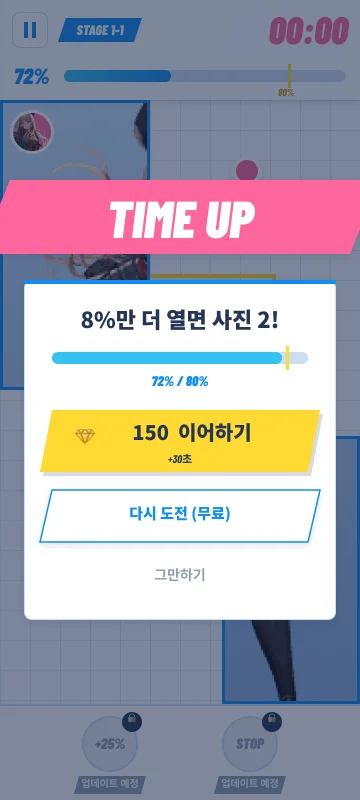
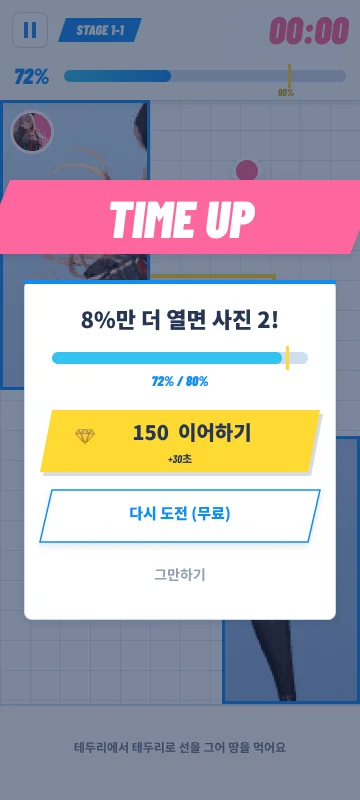
Proposal: no booster slots at launch, tap a storyboard to float the whole flow with holo result
Claude-Session: https://claude.ai/code/session_01QC4LnGUoEV4hPAaGSGh6GF

diff --git a/territory-romance-f2p-proposal.html b/territory-romance-f2p-proposal.html
@@ -104,6 +104,18 @@ section{margin:72px 0}
 .pm .phone{width:min(92vw,calc(86vh*9/16),380px);border-radius:26px;padding:8px;background:#0e1726;box-shadow:0 18px 50px rgba(0,0,0,.5)}
 .pm iframe{display:block;width:100%;aspect-ratio:9/16;border:0;border-radius:19px;background:#eaf3ff}
 .pm .x{position:absolute;top:14px;right:14px;border:0;background:rgba(255,255,255,.14);color:#fff;font:900 22px/1 inherit;width:44px;height:44px;border-radius:999px;cursor:pointer}
+.sbv{position:fixed;inset:0;z-index:55;display:none;flex-direction:column;justify-content:center;background:#0b1220;padding:54px 16px 16px}
+.sbv.on{display:flex}
+.sbv h4{margin:0 0 14px;color:#e9eef5;font-size:15px;font-weight:900;text-align:center}
+.sbv .row{display:flex;gap:12px;overflow-x:auto;padding:4px 6px 6px;scroll-snap-type:x mandatory;align-items:flex-start;padding-bottom:6px}
+.sbv figure{margin:0;flex:0 0 auto;scroll-snap-align:center}
+.sbv figure img{display:block;width:100%;height:auto;border-radius:10px;background:#fff;box-shadow:0 10px 30px rgba(0,0,0,.4)}
+.sbv figure .holo{border-radius:10px}
+.sbv figcaption{color:#e9eef5;margin-top:10px;font-size:13px;line-height:1.4;word-break:keep-all}
+.sbv figcaption b{display:block;font-size:14.5px;margin-bottom:3px}
+.sbv figcaption b i{font-style:normal;color:#46c8d7;margin-right:6px}
+.sbv figcaption span{color:#b9c6d6}
+.sbv .x{position:absolute;top:10px;right:14px;border:0;background:rgba(255,255,255,.14);color:#fff;font:900 22px/1 inherit;width:44px;height:44px;border-radius:999px;cursor:pointer}
 .lb{position:fixed;inset:0;z-index:50;display:none;align-items:center;justify-content:center;background:rgba(8,14,24,.86);padding:16px}
 .lb.on{display:flex}
 .lb figure{margin:0;display:flex;flex-direction:column;align-items:center;gap:10px;max-width:100%}
@@ -301,7 +313,7 @@ footer{border-top:1px solid var(--line);padding-top:18px;color:var(--muted);font
  <div class="legend">
   <div><svg class="ic" aria-hidden="true"><use href="#i-gem"/></svg><div><b>젬 (ジェム)</b><span>게임 안 재화는 이것 하나</span></div></div>
   <div><svg class="ic" aria-hidden="true"><use href="#i-heart"/></svg><div><b>♥ 인기 수</b><span>목록 카드의 반응 수 · 재화 아님</span></div></div>
-  <div class="none"><div><b>에너지 · 아이템 없음</b><span>퍼즐 입장 무료 · 부스터 슬롯은 잠금 상태로 노출 (v1.1 해제)</span></div></div>
+  <div class="none"><div><b>에너지 · 아이템 없음</b><span>퍼즐 입장 무료 · 런칭엔 퍼즐 아이템 없음 (부스터는 지표 보고 v1.1)</span></div></div>
  </div>
  <div class="money">
   <div class="mcard"><img src="japan-project/proposal-screens-b/06-map.webp" alt="" loading="lazy"><div><h3>사진 열기</h3><div class="price"><svg class="ic" aria-hidden="true"><use href="#i-gem"/></svg>100 ~ 200</div><p>캐릭터마다 첫 사진은 무료. 사진 2 / 3 / 4 = 100 / 150 / 200 (캐릭터당 450). 사진 4장을 모으면 다음 캐릭터가 무료로 열림.</p></div></div>
@@ -357,11 +369,11 @@ footer{border-top:1px solid var(--line);padding-top:18px;color:var(--muted);font
  </div>
  <div class="spec">
   <div><b>콘텐츠</b><p>캐릭터 4명 (첫 캐릭터부터 순서대로 · 사진 4장 모으면 다음 캐릭터 해금 · 젬으로 바로 열기 가능)<br>캐릭터당 스탠딩 1 · 사진 4 · 엔딩 1구도 (R/SR/UR 차분) · UR 짧은 루프 영상 1개 (GIF 형태 · 3~5초 [E])<br>퍼즐 10판 · 판당 질문 1개 + 응원 · 핫스폿 대사 (고정 시나리오, LLM 없음)</p></div>
-  <div><b>시스템</b><p>퍼즐 중 질문 · 응원 · 핫스폿 · 챕터 맵(다음 사진 미리보기)<br>땅따먹기 퍼즐 (입장 무료 · 부스터 슬롯 잠금 표시) · 이어하기 · 2연속 실패 도움 모드<br>사진 열기(첫 사진 무료 · 이후 젬) · 취향 태그 · 되돌리기 하루 1회 무료 · 친밀도 수치 없음<br>엔딩 뽑기: 첫 1회 무료 · 확률 + 스텝업</p></div>
+  <div><b>시스템</b><p>퍼즐 중 질문 · 응원 · 핫스폿 · 챕터 맵(다음 사진 미리보기)<br>땅따먹기 퍼즐 (입장 무료 · 아이템 없음) · 이어하기 · 2연속 실패 도움 모드<br>사진 열기(첫 사진 무료 · 이후 젬) · 취향 태그 · 되돌리기 하루 1회 무료 · 친밀도 수치 없음<br>엔딩 뽑기: 첫 1회 무료 · 확률 + 스텝업</p></div>
   <div><b>경제</b><p>재화는 젬 하나 (유료 구매분 · 무료 지급분 내부 구분)<br>되돌리기 하루 1회 무료 → 이후 <svg class="ic" aria-hidden="true"><use href="#i-gem"/></svg>20<br>캐릭터는 진행으로 무료 해금 (사진 4장 → 다음 캐릭터) · 원하는 캐릭터를 바로 열려면 <svg class="ic" aria-hidden="true"><use href="#i-gem"/></svg>150 [E] · 첫 클리어 판마다 젬 +10<br>상점 3팩(¥1,000 · 3,000 · 5,000) + 스타터 팩 · 플랫폼 포인트 결제</p></div>
   <div><b>연출 · 운영</b><p>UR = 최고 수위 일러 + GIF 형태 짧은 루프 영상 (3~5초 [E]) + 자동으로 흐르는 홀로 (센서 없음)<br>플랫폼 로그인 · 결제 SDK · 서버 세이브<br>확률 표기 · 특상법 · 자금결제법 표기 · 컴프가챠 없음</p></div>
  </div>
- <div class="cut"><i>뺀 것</i>전체 보기·필터 · 취향 노트 화면 · 관계 등급 보너스 · 마음 콤보 · 루트 패스 · 일일 미션 · Live2D UR · 기울이기 홀로 · 퍼즐 부스터 기능(슬롯은 잠금 표시) · 잠금 캐릭터 전용 애니 → 전부 업데이트로 이관</div>
+ <div class="cut"><i>뺀 것</i>전체 보기·필터 · 취향 노트 화면 · 관계 등급 보너스 · 마음 콤보 · 루트 패스 · 일일 미션 · Live2D UR · 기울이기 홀로 · 퍼즐 부스터 · 잠금 캐릭터 전용 애니 → 전부 업데이트로 이관</div>
 </section>
 
 <section id="update">
@@ -371,10 +383,10 @@ footer{border-top:1px solid var(--line);padding-top:18px;color:var(--muted);font
 
  <div class="vergroup">
   <h3><span class="vt" style="font-size:13px">v1.1</span>붙잡기 · 묶어 팔기</h3>
-  <div class="when">런칭 +1개월 [E] · 캐릭터 +2 · 신규 화면: 일일 미션 · 루트 패스 · 전체 보기/필터 · 퍼즐 부스터 잠금 해제</div>
+  <div class="when">런칭 +1개월 [E] · 캐릭터 +2 · 신규 화면: 일일 미션 · 루트 패스 · 전체 보기/필터 · 퍼즐 부스터 (클리어율 · D7 나쁘면 앞당김)</div>
   <div class="trig">앞당기는 조건: D7 리텐션 · 첫 결제 전환율</div>
   <div class="hl">
-   <figure><img src="japan-project/proposal-screens-b/h02-boost.webp" alt="" loading="lazy"><figcaption><b>02 퍼즐 · 부스터 잠금 해제</b><span>공개 +25% (판당 1회 무료) · 방해물 정지 <svg class="ic" aria-hidden="true"><use href="#i-gem"/></svg>100</span></figcaption></figure>
+   <figure><img src="japan-project/proposal-screens-b/h02-boost.webp" alt="" loading="lazy"><figcaption><b>02 퍼즐 + 부스터 추가</b><span>공개 +25% (판당 1회 무료) · 방해물 정지 <svg class="ic" aria-hidden="true"><use href="#i-gem"/></svg>100</span></figcaption></figure>
    <figure><img src="japan-project/proposal-screens-b/h01-all.webp" alt="" loading="lazy"><figcaption><b>01 로비 + 전체 보기 버튼</b><span>캐릭터 6명 넘으면 목록 · 필터 오픈</span></figcaption></figure>
    <figure><img src="japan-project/proposal-screens-b/h06a-pass.webp" alt="" loading="lazy"><figcaption><b>05 챕터 맵 + 루트 패스 링크</b><span>¥980 · 되돌리기 매일 +3 · 이어하기 3 · 다시 뽑기 3</span></figcaption></figure>
    <figure><img src="japan-project/proposal-screens-b/d1-daily.webp" alt="" loading="lazy"><figcaption><b>신규 · 일일 미션</b><span>하루 <svg class="ic" aria-hidden="true"><use href="#i-gem"/></svg>40 · 주간 <svg class="ic" aria-hidden="true"><use href="#i-gem"/></svg>100 (무료 지급 젬)</span></figcaption></figure>
@@ -461,4 +473,17 @@ function d(){return document.documentElement.getAttribute('data-design')==='a'?'
 function close(){pm.classList.remove('on');f.src='about:blank';document.body.style.overflow=''}
 Array.prototype.forEach.call(document.querySelectorAll('.pchip'),function(b){b.addEventListener('click',function(){var m=b.getAttribute('data-mode');f.src='japan-project/jintori-mockup/index.html?design='+d()+'&auto=1'+(m==='lite'?'&mode=lite':'');pm.classList.add('on');document.body.style.overflow='hidden'})});
 pm.querySelector('.x').onclick=close;pm.addEventListener('click',function(e){if(e.target===pm)close()});document.addEventListener('keydown',function(e){if(e.key==='Escape'&&pm.classList.contains('on'))close()});})();</script>
+<div class="sbv" id="sbv" role="dialog" aria-modal="true" aria-label="스토리보드 크게 보기"><button class="x" type="button" aria-label="닫기">✕</button><h4></h4><div class="row"></div></div>
+<script>(function(){var v=document.getElementById('sbv'),row=v.querySelector('.row'),h=v.querySelector('h4');
+function close(){v.classList.remove('on');row.innerHTML='';document.body.style.overflow=''}
+document.addEventListener('click',function(e){var im=e.target.closest&&e.target.closest('.rail img');if(!im)return;e.preventDefault();e.stopImmediatePropagation();
+ var rail=im.closest('.rail'),lab=rail.previousElementSibling;h.textContent=lab&&lab.classList.contains('sbl')?Array.prototype.map.call(lab.childNodes,function(n){return n.nodeType===3?n.textContent:(n.tagName==='EM'?n.textContent:'')}).join(' ').replace(/\s+/g,' ').trim():'';
+ row.innerHTML='';var target=null;Array.prototype.forEach.call(rail.querySelectorAll('figure.shot'),function(f){var c=document.createElement('figure');var img=f.querySelector('img'),hol=img.closest('.holo');var w=document.createElement('div');w.className='im';
+  var ni=document.createElement('img');ni.src=img.getAttribute('src');ni.alt='';if(hol){var hd=document.createElement('div');hd.className='holo';hd.appendChild(ni);w.appendChild(hd)}else w.appendChild(ni);c.appendChild(w);
+  var cap=f.querySelector('figcaption');if(cap)c.appendChild(cap.cloneNode(true));row.appendChild(c);if(img===im)target=c});
+ v.classList.add('on');document.body.style.overflow='hidden';size();if(target)setTimeout(function(){target.scrollIntoView({inline:'center',block:'nearest'})},30)},true);
+function size(){var fs=row.querySelectorAll('figure'),n=fs.length;if(!n)return;var W=innerWidth-44,gap=12,H=innerHeight-54-16-34-90;var w=Math.min((W-gap*(n-1))/n,H/2.22);var scroll=false;if(w<110){w=Math.min(W*.78,H/2.22);scroll=true}
+ row.style.justifyContent=scroll?'flex-start':'center';Array.prototype.forEach.call(fs,function(f){f.style.width=w+'px'})}
+addEventListener('resize',function(){if(v.classList.contains('on'))size()});
+v.querySelector('.x').onclick=close;v.addEventListener('click',function(e){if(e.target===v||e.target===row)close()});document.addEventListener('keydown',function(e){if(e.key==='Escape'&&v.classList.contains('on'))close()});})();</script>
 </body></html>
